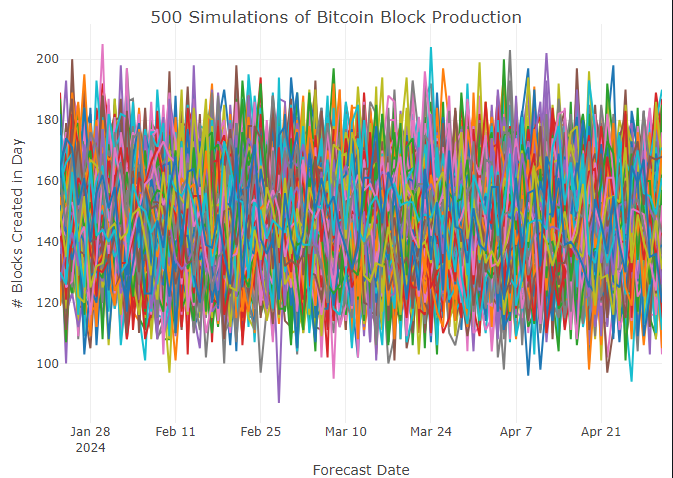
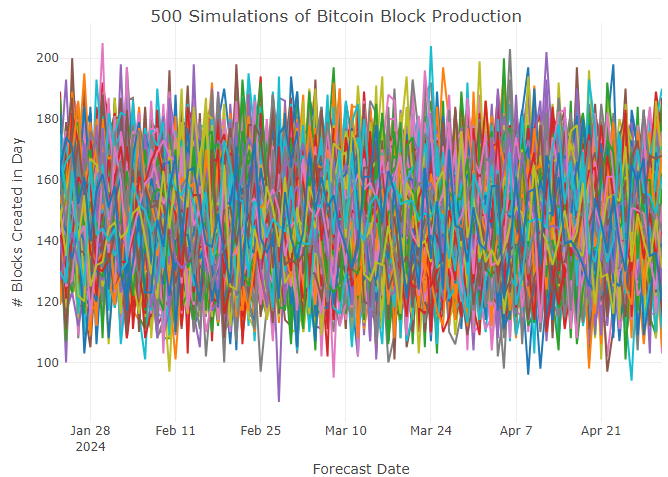
small fixes

diff --git a/README.md b/README.md
@@ -14,7 +14,7 @@ From there you can open `predicting_btc_halvening.Rmd` and run.
 
 Doing 500 simulations of bitcoin blocks made each day (trained over the 365 days before 2024-01-23), the most likely date is April 20th.
 
-[![500 Simulations of Bitcoin Block Production](500_simulations.png)]
+![500 Simulations of Bitcoin Block Production](500_simulations.png)
 
 90.6% of the simulations had the Halving on April 19th (3rd), 20th (1st), or 21st (2nd).
 
